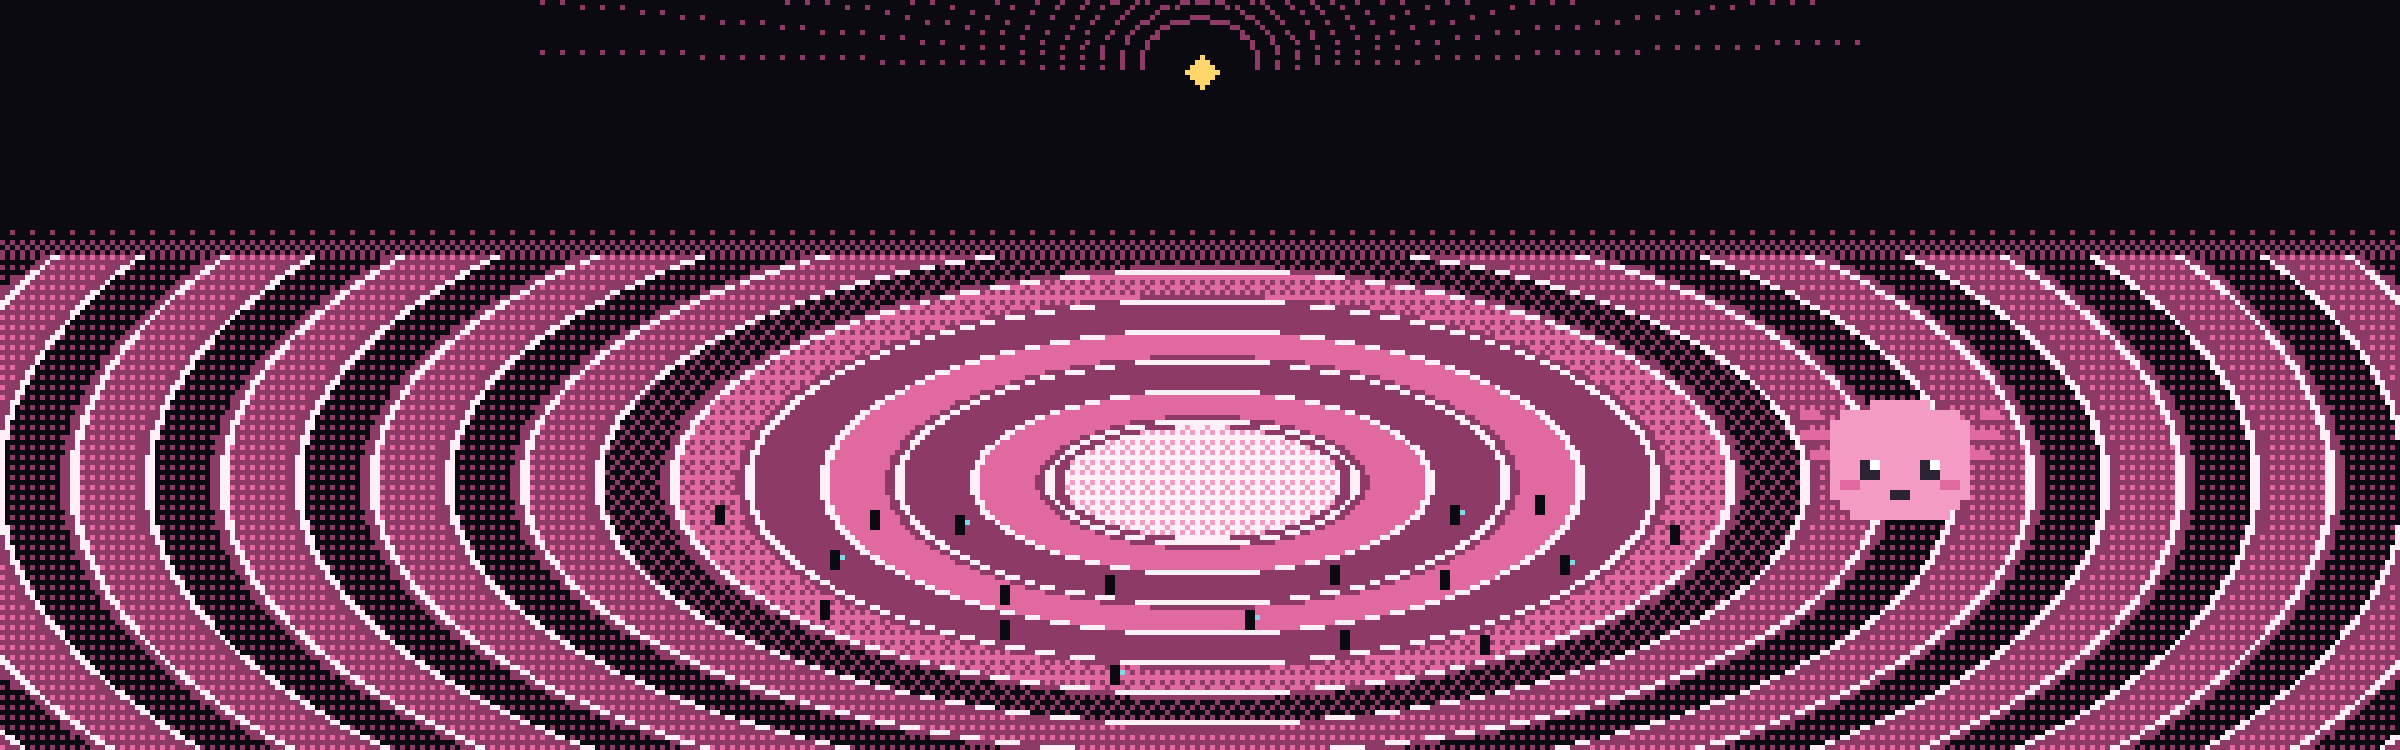
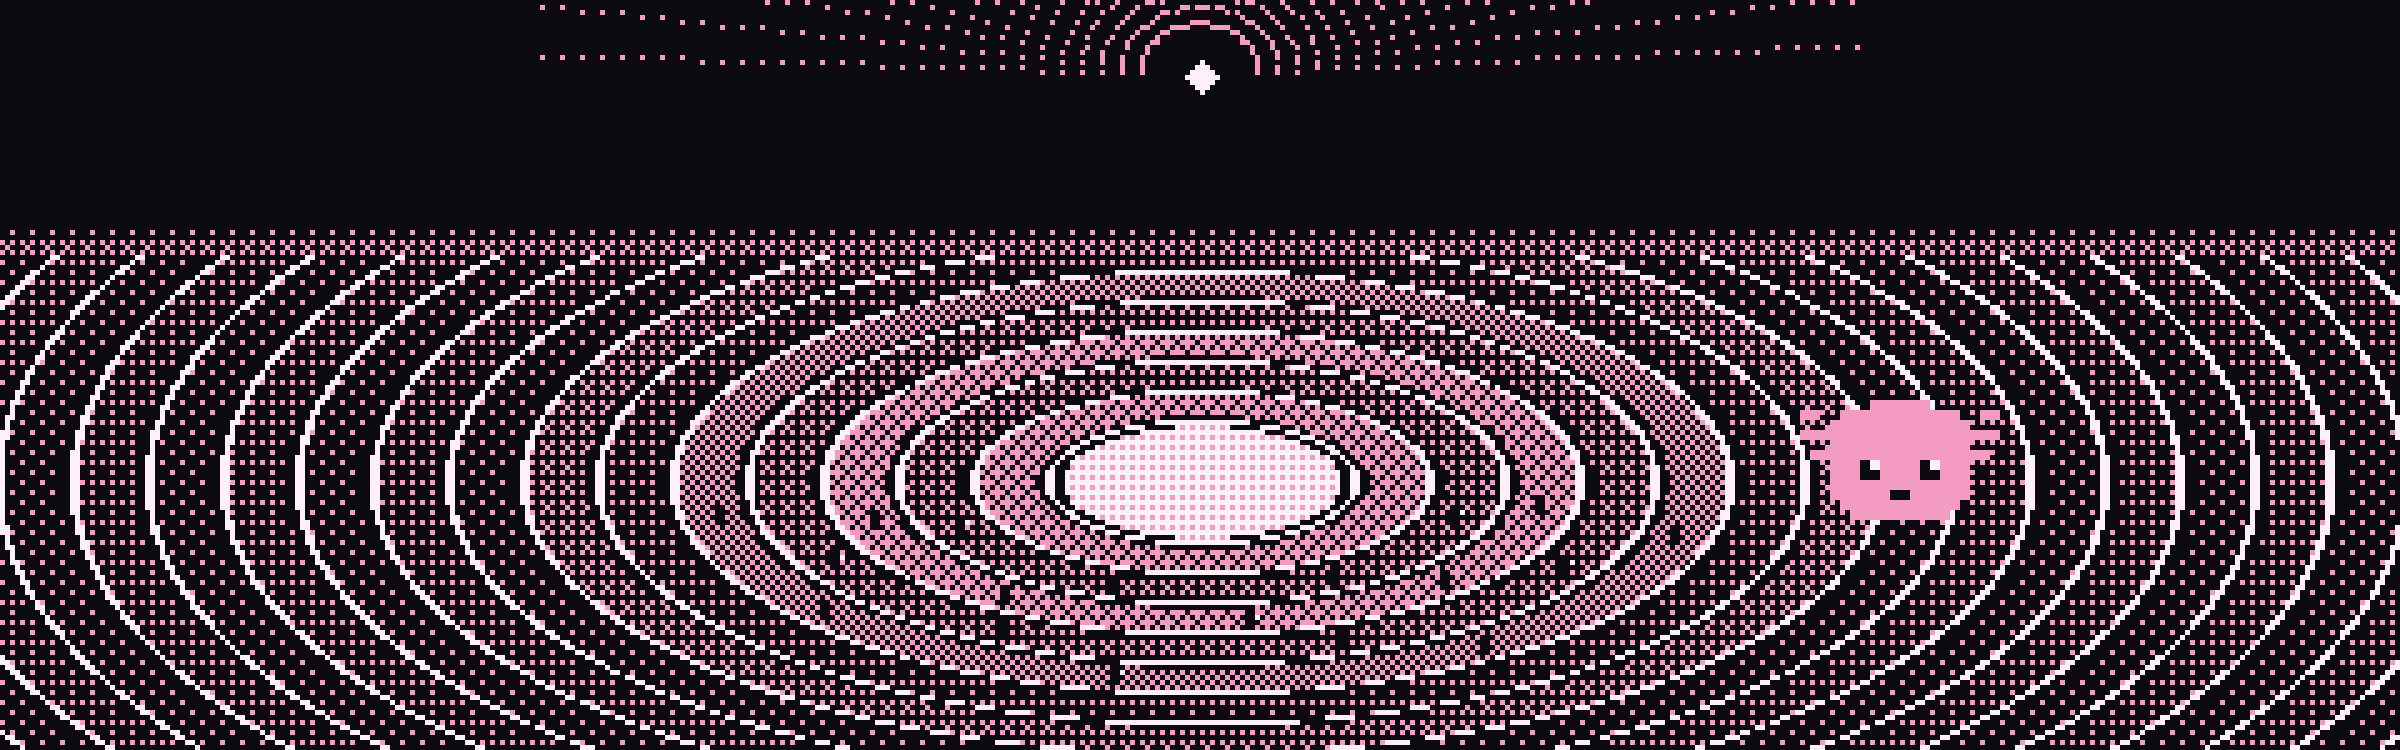
feat(site): 포트폴리오 v15.2 — 두-잉크 규율 + 무대 조명 스크롤
로즈+로즈화이트 두 잉크(디더 밀도로 톤) 듀오톤으로 씬 재생성, 골드·아쿠아
전면 퇴장(UI 악센트 스윕 포함). 녹화 영상의 효과 이식: StageLight가 각
막을 중앙 진입 시 점등, 이탈 시 암전(opacity-only, RM-safe).

Claude-Session: https://claude.ai/code/session_01PqVsEXaJAUXfpCbsdzRavA

diff --git a/site/src/app/portfolio/page.tsx b/site/src/app/portfolio/page.tsx
@@ -108,7 +108,7 @@ function TerminalMock() {
           </div>
         </div>
       </div>
-      <figcaption className="mx-auto mt-3 w-fit rounded bg-[color-mix(in_srgb,var(--paper)_78%,transparent)] px-3 py-1 text-center font-mono text-[10.5px] text-[var(--acc-aqua)]">
+      <figcaption className="mx-auto mt-3 w-fit rounded bg-[color-mix(in_srgb,var(--paper)_78%,transparent)] px-3 py-1 text-center font-mono text-[10.5px] text-[var(--acc-artifact)]">
         core/ui/mascot.py · geodi_art.py{" "}
         <span className="text-[var(--ink-2)]">
           {t(locale, "CLI 웰컴 스크린을 그대로 옮긴 화면", "the CLI welcome screen, transcribed")}
@@ -187,7 +187,7 @@ function HeroField() {
             </motion.p>
             <motion.div variants={heroItem} className="mt-3 inline-block rounded bg-[var(--paper)] px-5 py-3 text-left font-mono text-[12.5px] text-[var(--ink-2)] sm:text-[13.5px]">
               <span className="text-[var(--acc-artifact)]">$</span> uv run geode{" "}
-              <span className="text-[var(--code-string)]">
+              <span className="text-[#FFF0F8]">
                 &quot;{t(locale, "이 레포 점검하고 릴리스 블로커 요약해줘", "inspect this repo and summarize release blockers")}&quot;
               </span>
             </motion.div>
@@ -288,9 +288,9 @@ function GalleryBand() {
 const LOOP_NODES = [
   { label: "Perceive", color: "var(--ink-2)" },
   { label: "Plan", color: "var(--ink-2)" },
-  { label: "Act", color: "var(--acc-line)" },
+  { label: "Act", color: "#FFF0F8" },
   { label: "Observe", color: "var(--ink-2)" },
-  { label: "Verify", color: "var(--acc-aqua)" },
+  { label: "Verify", color: "var(--acc-artifact)" },
   { label: "Replan", color: "var(--ink-2)" },
 ];
 
@@ -443,17 +443,17 @@ function AuditGateDiagram() {
           shapeRendering="crispEdges"
         />
       ))}
-      <line x1="316" y1="76" x2="402" y2="76" stroke="var(--acc-line)" strokeWidth="1" strokeDasharray="4 2" />
+      <line x1="316" y1="76" x2="402" y2="76" stroke="#FFF0F8" strokeWidth="1" strokeDasharray="4 2" />
       <text x="359" y="120" textAnchor="middle" fontSize="8.5" fontFamily="var(--font-fira-code), monospace" fill="var(--ink-3)">
         critical floor
       </text>
 
       {/* gate branches */}
       <line x1="406" y1="85" x2="430" y2="85" stroke="var(--rule)" strokeWidth="1" />
-      <line x1="430" y1="85" x2="446" y2="52" stroke="var(--acc-line)" strokeWidth="1" />
-      <polygon points="-3,-3.5 4,0 -3,3.5" fill="var(--acc-line)" transform="translate(448 49) rotate(-64)" />
-      <rect x="446" y="30" width="66" height="20" fill="var(--paper-2)" stroke="var(--acc-line)" shapeRendering="crispEdges" />
-      <text x="479" y="43" textAnchor="middle" fontSize="9.5" fontFamily="var(--font-fira-code), monospace" fill="var(--acc-line)">
+      <line x1="430" y1="85" x2="446" y2="52" stroke="#FFF0F8" strokeWidth="1" />
+      <polygon points="-3,-3.5 4,0 -3,3.5" fill="#FFF0F8" transform="translate(448 49) rotate(-64)" />
+      <rect x="446" y="30" width="66" height="20" fill="var(--paper-2)" stroke="#FFF0F8" shapeRendering="crispEdges" />
+      <text x="479" y="43" textAnchor="middle" fontSize="9.5" fontFamily="var(--font-fira-code), monospace" fill="#FFF0F8">
         promote
       </text>
       <line x1="430" y1="85" x2="446" y2="118" stroke="var(--ink-3)" strokeWidth="1" />
@@ -512,7 +512,7 @@ function SeedgenDiagram() {
               y="16"
               width="5"
               height="5"
-              fill={i === 4 ? "var(--acc-line)" : "var(--acc-artifact)"}
+              fill={i === 4 ? "#FFF0F8" : "var(--acc-artifact)"}
               shapeRendering="crispEdges"
             />
           ))}
@@ -528,13 +528,31 @@ function SeedgenDiagram() {
       <text x="260" y="116" textAnchor="middle" fontSize="9" fontFamily="var(--font-fira-code), monospace" fill="var(--ink-3)">
         {t(locale, "후보는 단계마다 떨어지고, top-5 생존자만 시드 풀에 남습니다", "candidates drop at every stage; only the top-5 survivors reach the seed pool")}
       </text>
-      <text x="260" y="134" textAnchor="middle" fontSize="8.5" fontFamily="var(--font-fira-code), monospace" fill="var(--acc-aqua)">
+      <text x="260" y="134" textAnchor="middle" fontSize="8.5" fontFamily="var(--font-fira-code), monospace" fill="var(--acc-artifact)">
         Elo + difficulty blend · co-evolving pool
       </text>
     </svg>
   );
 }
 
+
+/** Scroll-driven stage lighting: an act brightens as it takes center stage
+    and falls back into the dark as it leaves (opacity-only, RM-safe). */
+function StageLight({ children, className }: { children: React.ReactNode; className?: string }) {
+  const lightRef = useRef<HTMLDivElement | null>(null);
+  const { scrollYProgress } = useScroll({ target: lightRef, offset: ["start end", "end start"] });
+  const shade = useTransform(scrollYProgress, [0, 0.28, 0.72, 1], [0.78, 0, 0, 0.78]);
+  return (
+    <div ref={lightRef} className={`relative ${className ?? ""}`}>
+      {children}
+      <motion.div
+        aria-hidden
+        className="pointer-events-none absolute inset-0 z-30 bg-[var(--paper)]"
+        style={{ opacity: shade }}
+      />
+    </div>
+  );
+}
 
 /* ---------------- run row: three ways in --------------------------------- */
 
@@ -576,7 +594,7 @@ function RunRow() {
             <h2 className="font-serif-display mt-3 text-[30px] font-semibold text-[var(--ink-1)]">
               {locale === "en" ? mode.titleEn : mode.titleKo}
             </h2>
-            <p className="mx-auto mt-3 inline-block rounded bg-[var(--paper-deep)] px-4 py-2 font-mono text-[13px] text-[var(--acc-line)]">
+            <p className="mx-auto mt-3 inline-block rounded bg-[var(--paper-deep)] px-4 py-2 font-mono text-[13px] text-[#FFF0F8]">
               {mode.cmd}
             </p>
             <p className="mx-auto mt-3 max-w-[260px] text-[13px] leading-[1.7] text-[var(--ink-2)]">
@@ -598,10 +616,10 @@ const SLAB_ACCENT = "#8E3A66";
 function PerceiveBanner() {
   return (
     <div className="flex h-full w-full flex-col justify-center gap-2.5 px-6 font-mono text-[12px] leading-relaxed">
-      <p><span className="text-[var(--acc-aqua)]">context</span><span className="text-[var(--ink-3)]"> · per-turn time, memory, rules</span></p>
-      <p><span className="text-[var(--acc-aqua)]">documents</span><span className="text-[var(--ink-3)]"> · local pdf ingest</span></p>
-      <p><span className="text-[var(--acc-aqua)]">browser</span><span className="text-[var(--ink-3)]"> · your real chrome, over cdp</span></p>
-      <p><span className="text-[var(--acc-aqua)]">desktop</span><span className="text-[var(--ink-3)]"> · ax tree before pixels</span></p>
+      <p><span className="text-[var(--acc-artifact)]">context</span><span className="text-[var(--ink-3)]"> · per-turn time, memory, rules</span></p>
+      <p><span className="text-[var(--acc-artifact)]">documents</span><span className="text-[var(--ink-3)]"> · local pdf ingest</span></p>
+      <p><span className="text-[var(--acc-artifact)]">browser</span><span className="text-[var(--ink-3)]"> · your real chrome, over cdp</span></p>
+      <p><span className="text-[var(--acc-artifact)]">desktop</span><span className="text-[var(--ink-3)]"> · ax tree before pixels</span></p>
     </div>
   );
 }
@@ -614,7 +632,7 @@ function MeasureBanner() {
       <div className="flex items-baseline justify-center gap-6">
         {cells.map((cell) => (
           <div key={cell.label} className="text-center">
-            <p className="font-serif-display text-[26px] font-black text-[var(--acc-line)]">{cell.value}</p>
+            <p className="font-serif-display text-[26px] font-black text-[#FFF0F8]">{cell.value}</p>
             <p className="mt-1 font-mono text-[10px] uppercase tracking-[0.2em] text-[var(--ink-3)]">{cell.label}</p>
           </div>
         ))}
@@ -856,15 +874,23 @@ export default function GeodePortfolioPage() {
           <HeroField />
         </div>
         <div className="relative z-10">
-          <GalleryBand />
-          <RunRow />
-          <FeaturesGrid />
+          <StageLight>
+            <GalleryBand />
+          </StageLight>
+          <StageLight>
+            <RunRow />
+          </StageLight>
+          <StageLight>
+            <FeaturesGrid />
+          </StageLight>
           <div className="relative">
             <div className="sticky top-0 z-0">
               <WordmarkBand />
             </div>
             <div className="relative z-10">
-              <LabFinale />
+              <StageLight>
+                <LabFinale />
+              </StageLight>
             </div>
           </div>
           <div className="relative z-10 bg-[var(--paper)]">

diff --git a/site/src/data/geode/changelog.ts b/site/src/data/geode/changelog.ts
@@ -19,7 +19,7 @@ export const CHANGELOG: ChangelogEntry[] = [
   {
     "version": "0.99.287",
     "date": "2026-07-10",
-    "body": "### Changed\n\n- **Portfolio v11 — landing-grade pass on the growth log (operator feedback\n  batch).** The hero is now centered with a terminal mock of the real CLI\n  welcome screen (`core/ui/mascot.py` line layout + `GEODI_PIXELS` sprite,\n  2-frame idle bob and blinking prompt caret, `prefers-reduced-motion`\n  respected), followed by a bento sheet band: the character-sheet aside, a\n  bench card rendering the synced tau2/MCPMark matrices\n  (`src/data/geode/benchmark-measurements.ts` — Retail 0.763 / Telecom 0.877 /\n  Airline 0.820 base runs, MCPMark filesystem/easy 100%), and a refreshed\n  tech-stack card (`tech-stack.ts` re-measured 2026-07-10; the stale\n  LangGraph/98-tests inventory is gone). Reference bar: the Claude Code\n  landing (product moment first, mascot as section divider, dated feed).\n- **Character-facing display font: Galmuri11.** The pixel font (SIL OFL,\n  woff2 vendored in `site/src/fonts/`) now carries /portfolio display\n  headings, era titles, stat numbers, and the docs-shell wordmark, matching\n  the dot mascot; body prose stays Inter. Korean headings use\n  `word-break: keep-all`.\n- **Docs shell carries the mascot.** The docs header brand renders a static\n  `GeodiSprite` beside the pixel wordmark; docs prose remains mascot-free.\n- **Selling points over inventory counts (operator feedback).** A \"why geode\"\n  section leads the page with the three differentiators (safety-gated\n  self-improvement, an execution-owning loop, subscription-resident\n  multi-provider), each pinned to a code path; the hero paragraph now sells\n  the essence instead of release counts. Section 03's body loop gains a\n  pixel-styled hexagon cycle diagram (while(tool_use) ring, finalize exit);\n  bench matrices gain per-value bars plus explicit model · provider · source\n  route lines (gpt-5.5 · openai-codex · subscription / gpt-5.2 · openai ·\n  payg), and the character sheet records supported providers. Copy: \"부화\"\n  retired for a \"Birth\" label, \"장비\" for \"도구\"; the growth log ends with an\n  open \"next act\" row reserved for the first self-cut release.\n- **Loop-laboratory art direction, final pass (Hermes landing x Lanthimos).**\n  Full rewrite of the page's first act: a rose color-field hero in the Hermes\n  split composition (editorial Noto Serif KR black statement left, generated\n  white-line engraving of the mascot right — PIL FIND_EDGES + dither hatch,\n  edge-feathered into the field), pixel wordmark as the centered brand mark,\n  mono small-caps labels, print-edition corner stamps (version, license), and\n  a full-bleed blurred gallery band with the real CLI welcome terminal\n  floating at its center. The chapter break becomes a portal-style band:\n  ghost pixel watermark, serif declaration, and the mascot as a specimen in a\n  circular petri dish (the audit system is literally named Petri). Type\n  hierarchy is now serif = statements/section titles, pixel = wordmark and\n  character surfaces, mono = labels. The YouTube demo section is removed per\n  operator; frontend stack is confirmed as Next.js 16 + React 19 + Tailwind 4\n  + Astryx + Galmuri11 + Noto Serif KR.\n- **Void theatre refinement (operator: signature colors only).** Orb lamps,\n  the striped dado, and the backdrop porthole are removed; both scenes reduce\n  to the essential loop-punk image — a single gold point radiating dotted\n  rays into the void above the concentric rose amphitheatre, the specimen on\n  its pale stage, and dark auditors on the tiers, a third of them now\n  carrying a single aqua lens pixel (rose = identity, gold = action, aqua =\n  information — the full signature triad and nothing else).\n- **The anatomical theatre + scroll-as-camera (Lanthimos impression pass).**\n  The checkerboard floors are gone: both generated scenes are rebuilt around\n  Poor Things' anatomical theatre — concentric tiered rings around the\n  specimen stage (petri rings = loop rings), sparse dark auditor silhouettes\n  watching from the tiers (the Petri panel), orb lamps flanking; in the wide\n  hall the floating CLI terminal itself becomes the specimen (Geodi sits in\n  the audience watching its own run). Scroll now drives the cinematography:\n  the hero scene push-zooms toward the specimen (the Lanthimos slow zoom),\n  the hall pulls back as its act arrives, the pinned wordmark looms, feature\n  banners drift in parallax, and the finale ghost counter-zooms — all\n  transform-only, reduced-motion gated.\n- **Set dressing pass (operator: less lo-fi, more Lanthimos + Hermes).**\n  The hero scene gains engraving-style rays radiating from the gold sun,\n  arched gallery windows with tracery, a striped dado (the Poor Things bar\n  counter), stacked glowing orb lamps, and a specimen dais inlaid beneath\n  the mascot; the gallery blur is replaced by a generated wide pixel hall\n  (`geode-hall-wide.png`, three portholes + colonnade) so the floating\n  terminal sits in front of the central porthole. Reduced-motion now keeps\n  opacity fades (movement/scale only are dropped) so choreography survives\n  macOS Reduce Motion; dead CadenceChart code removed.\n- **Act-curtain page transitions.** Scrolling now changes acts instead of\n  sliding one long page: the hero field pins beneath the flow and dims/scales\n  back as the gallery band rides over it, and the giant wordmark pins as a\n  full-screen act that the rose finale then covers (pure position: sticky\n  stacking + framer scroll transforms — no scroll hijack, fully\n  interruptible, reduced-motion gated). Vercel web-interface-guidelines pass:\n  text-balance on display headings, touch-action on primary CTAs; finale\n  eyebrow reads \"cultured since\" (lab tone) instead of \"birth\".\n- **Content demolition — the Hermes screen-recording grammar (operator\n  directive).** The dossier sections (why/sheet/loop/growth/evolve with their\n  tables and logs) are torn down and rebuilt as: a three-way RUN row\n  (Terminal / MCP Server / Daemon with command chips), six numbered\n  editorial plates on a rose-white print slab (#1 RUNS THE LOOP .. #6 ON\n  YOUR SUBSCRIPTIONS — serif-caps headlines over dark art banners reusing\n  the loop/audit/seedgen diagrams, tau2 figures, and perception lines), a\n  giant edge-to-edge pixel GEODE wordmark band, and a Loop Laboratory\n  finale (specimen dish, birth/release stats, docs + full-record CTAs,\n  corner stamps). Astryx Token remains on the reside plate; the measured\n  claims survive in distilled form.\n- **Nacreous sky field + frame-breaks (Poor Things trailer review).** The\n  hero's flat rose field becomes a generated pixel sky (`geode-sky.png`:\n  domain-warped sine swirls dithered into white crests and deep-rose shadows,\n  with a calmed zone behind the statement text), and crisp pixel clouds\n  drift across — and past — the lab-scene frame (`PixelCloud`, steps()\n  animation, reduced-motion gated).\n- **Representative character image + motion pass (dot art x Lanthimos).**\n  `geode-lab-scene.png` is generated procedurally (PIL): Geodi centered in a\n  one-point-perspective laboratory hall — The Favourite's checkerboard\n  marble, Poor Things' porthole sky with a gold sun, Sacred Deer symmetry —\n  in a 6-color pixel palette, and mounts as the hero's right panel. The page\n  defaults to English (`LocaleProvider` gains `defaultLocale`; Korean copy\n  retained behind the toggle pending operator review), and framer-motion\n  choreography lands: hero stagger, scene idle float, terminal rise into the\n  gallery band, petri-dish spring, cadence bars growing on view — all gated\n  by `useReducedMotion`. Superseded etch/plate drafts removed.\n- **Perception and action, as implemented (operator PDF review).** The loop\n  section now grounds four capabilities in their modules: the two-layer\n  prompt (`<static_context>` cached / `<dynamic_context>` per-turn with\n  provider-gated current date, `core/agent/system_prompt.py`), local PDF\n  ingest (`core/tools/document_ingest.py`), real-Chrome CDP browser use\n  (`core/tools/browser_tools.py`), and the provider-agnostic computer-use\n  harness with the AX-tree first rung (`core/tools/computer_use.py` ·\n  `ui_probe.py`). Loop copy adds the explicit termination-reason catalog.\n- **Self-evolving apparatus, drawn (Hermes-landing style feature visuals).**\n  Two pixel schematics join the loop diagram: the audit-gate diagram\n  (scaffold mutation, adversarial Petri arena, dimension bars with the\n  critical floor, promote/reject branches with the gate·random·never arms)\n  and the seed-hypothesis factory (generator, critic, pilot, ranker, evolver\n  with candidates culled per stage, Elo + difficulty survivor blend). An\n  honest attempt-history log records what did not work: the zero-promotion\n  saturation finding and Crucible cycle 1's \"proved the protocol, not\n  self-improvement\" conclusion, with dates and version anchors.\n- **Identity details.** The site favicon is now the canonical GEODI_PIXELS\n  sprite (generated `src/app/icon.png` + `favicon.ico`), a mascot-budgeted\n  404 page lands at `src/app/not-found.tsx`, and the hero/card sprites react\n  to clicks with a three-hop pixel bounce (`prefers-reduced-motion` guarded).\n- **De-slop: decorative arrows and the dev-blog link are gone.** CTA/link\n  arrows (`→`, `▸`) are removed site-portfolio-wide (ranges now use `~`), and\n  the Dev Blog link is dropped from the portfolio hero and the shared footer.\n  Growth-log sections gain restrained scroll reveals (existing framer-motion\n  `ScrollReveal`)."
+    "body": "### Changed\n\n- **Portfolio v11 — landing-grade pass on the growth log (operator feedback\n  batch).** The hero is now centered with a terminal mock of the real CLI\n  welcome screen (`core/ui/mascot.py` line layout + `GEODI_PIXELS` sprite,\n  2-frame idle bob and blinking prompt caret, `prefers-reduced-motion`\n  respected), followed by a bento sheet band: the character-sheet aside, a\n  bench card rendering the synced tau2/MCPMark matrices\n  (`src/data/geode/benchmark-measurements.ts` — Retail 0.763 / Telecom 0.877 /\n  Airline 0.820 base runs, MCPMark filesystem/easy 100%), and a refreshed\n  tech-stack card (`tech-stack.ts` re-measured 2026-07-10; the stale\n  LangGraph/98-tests inventory is gone). Reference bar: the Claude Code\n  landing (product moment first, mascot as section divider, dated feed).\n- **Character-facing display font: Galmuri11.** The pixel font (SIL OFL,\n  woff2 vendored in `site/src/fonts/`) now carries /portfolio display\n  headings, era titles, stat numbers, and the docs-shell wordmark, matching\n  the dot mascot; body prose stays Inter. Korean headings use\n  `word-break: keep-all`.\n- **Docs shell carries the mascot.** The docs header brand renders a static\n  `GeodiSprite` beside the pixel wordmark; docs prose remains mascot-free.\n- **Selling points over inventory counts (operator feedback).** A \"why geode\"\n  section leads the page with the three differentiators (safety-gated\n  self-improvement, an execution-owning loop, subscription-resident\n  multi-provider), each pinned to a code path; the hero paragraph now sells\n  the essence instead of release counts. Section 03's body loop gains a\n  pixel-styled hexagon cycle diagram (while(tool_use) ring, finalize exit);\n  bench matrices gain per-value bars plus explicit model · provider · source\n  route lines (gpt-5.5 · openai-codex · subscription / gpt-5.2 · openai ·\n  payg), and the character sheet records supported providers. Copy: \"부화\"\n  retired for a \"Birth\" label, \"장비\" for \"도구\"; the growth log ends with an\n  open \"next act\" row reserved for the first self-cut release.\n- **Loop-laboratory art direction, final pass (Hermes landing x Lanthimos).**\n  Full rewrite of the page's first act: a rose color-field hero in the Hermes\n  split composition (editorial Noto Serif KR black statement left, generated\n  white-line engraving of the mascot right — PIL FIND_EDGES + dither hatch,\n  edge-feathered into the field), pixel wordmark as the centered brand mark,\n  mono small-caps labels, print-edition corner stamps (version, license), and\n  a full-bleed blurred gallery band with the real CLI welcome terminal\n  floating at its center. The chapter break becomes a portal-style band:\n  ghost pixel watermark, serif declaration, and the mascot as a specimen in a\n  circular petri dish (the audit system is literally named Petri). Type\n  hierarchy is now serif = statements/section titles, pixel = wordmark and\n  character surfaces, mono = labels. The YouTube demo section is removed per\n  operator; frontend stack is confirmed as Next.js 16 + React 19 + Tailwind 4\n  + Astryx + Galmuri11 + Noto Serif KR.\n- **Two-ink discipline + stage lighting (operator: Hermes uses exactly two\n  colors).** The whole portfolio surface reduces to two inks on the dark\n  substrate — Axolotl Rose and rose-white — with tone carried by dither\n  density, exactly the Hermes engraving trick: both scenes regenerated as\n  strict duotone (gold/aqua leave the artwork; the sun, rims, and auditor\n  lenses become rose-white), and every UI accent sweeps with them (command\n  strings, bench figures, diagram highlights). Scroll gains the recorded\n  Hermes effect: StageLight overlays brighten each act as it takes center\n  stage and sink it back into darkness as it leaves (opacity-only).\n- **Void theatre refinement (operator: signature colors only).** Orb lamps,\n  the striped dado, and the backdrop porthole are removed; both scenes reduce\n  to the essential loop-punk image — a single gold point radiating dotted\n  rays into the void above the concentric rose amphitheatre, the specimen on\n  its pale stage, and dark auditors on the tiers, a third of them now\n  carrying a single aqua lens pixel (rose = identity, gold = action, aqua =\n  information — the full signature triad and nothing else).\n- **The anatomical theatre + scroll-as-camera (Lanthimos impression pass).**\n  The checkerboard floors are gone: both generated scenes are rebuilt around\n  Poor Things' anatomical theatre — concentric tiered rings around the\n  specimen stage (petri rings = loop rings), sparse dark auditor silhouettes\n  watching from the tiers (the Petri panel), orb lamps flanking; in the wide\n  hall the floating CLI terminal itself becomes the specimen (Geodi sits in\n  the audience watching its own run). Scroll now drives the cinematography:\n  the hero scene push-zooms toward the specimen (the Lanthimos slow zoom),\n  the hall pulls back as its act arrives, the pinned wordmark looms, feature\n  banners drift in parallax, and the finale ghost counter-zooms — all\n  transform-only, reduced-motion gated.\n- **Set dressing pass (operator: less lo-fi, more Lanthimos + Hermes).**\n  The hero scene gains engraving-style rays radiating from the gold sun,\n  arched gallery windows with tracery, a striped dado (the Poor Things bar\n  counter), stacked glowing orb lamps, and a specimen dais inlaid beneath\n  the mascot; the gallery blur is replaced by a generated wide pixel hall\n  (`geode-hall-wide.png`, three portholes + colonnade) so the floating\n  terminal sits in front of the central porthole. Reduced-motion now keeps\n  opacity fades (movement/scale only are dropped) so choreography survives\n  macOS Reduce Motion; dead CadenceChart code removed.\n- **Act-curtain page transitions.** Scrolling now changes acts instead of\n  sliding one long page: the hero field pins beneath the flow and dims/scales\n  back as the gallery band rides over it, and the giant wordmark pins as a\n  full-screen act that the rose finale then covers (pure position: sticky\n  stacking + framer scroll transforms — no scroll hijack, fully\n  interruptible, reduced-motion gated). Vercel web-interface-guidelines pass:\n  text-balance on display headings, touch-action on primary CTAs; finale\n  eyebrow reads \"cultured since\" (lab tone) instead of \"birth\".\n- **Content demolition — the Hermes screen-recording grammar (operator\n  directive).** The dossier sections (why/sheet/loop/growth/evolve with their\n  tables and logs) are torn down and rebuilt as: a three-way RUN row\n  (Terminal / MCP Server / Daemon with command chips), six numbered\n  editorial plates on a rose-white print slab (#1 RUNS THE LOOP .. #6 ON\n  YOUR SUBSCRIPTIONS — serif-caps headlines over dark art banners reusing\n  the loop/audit/seedgen diagrams, tau2 figures, and perception lines), a\n  giant edge-to-edge pixel GEODE wordmark band, and a Loop Laboratory\n  finale (specimen dish, birth/release stats, docs + full-record CTAs,\n  corner stamps). Astryx Token remains on the reside plate; the measured\n  claims survive in distilled form.\n- **Nacreous sky field + frame-breaks (Poor Things trailer review).** The\n  hero's flat rose field becomes a generated pixel sky (`geode-sky.png`:\n  domain-warped sine swirls dithered into white crests and deep-rose shadows,\n  with a calmed zone behind the statement text), and crisp pixel clouds\n  drift across — and past — the lab-scene frame (`PixelCloud`, steps()\n  animation, reduced-motion gated).\n- **Representative character image + motion pass (dot art x Lanthimos).**\n  `geode-lab-scene.png` is generated procedurally (PIL): Geodi centered in a\n  one-point-perspective laboratory hall — The Favourite's checkerboard\n  marble, Poor Things' porthole sky with a gold sun, Sacred Deer symmetry —\n  in a 6-color pixel palette, and mounts as the hero's right panel. The page\n  defaults to English (`LocaleProvider` gains `defaultLocale`; Korean copy\n  retained behind the toggle pending operator review), and framer-motion\n  choreography lands: hero stagger, scene idle float, terminal rise into the\n  gallery band, petri-dish spring, cadence bars growing on view — all gated\n  by `useReducedMotion`. Superseded etch/plate drafts removed.\n- **Perception and action, as implemented (operator PDF review).** The loop\n  section now grounds four capabilities in their modules: the two-layer\n  prompt (`<static_context>` cached / `<dynamic_context>` per-turn with\n  provider-gated current date, `core/agent/system_prompt.py`), local PDF\n  ingest (`core/tools/document_ingest.py`), real-Chrome CDP browser use\n  (`core/tools/browser_tools.py`), and the provider-agnostic computer-use\n  harness with the AX-tree first rung (`core/tools/computer_use.py` ·\n  `ui_probe.py`). Loop copy adds the explicit termination-reason catalog.\n- **Self-evolving apparatus, drawn (Hermes-landing style feature visuals).**\n  Two pixel schematics join the loop diagram: the audit-gate diagram\n  (scaffold mutation, adversarial Petri arena, dimension bars with the\n  critical floor, promote/reject branches with the gate·random·never arms)\n  and the seed-hypothesis factory (generator, critic, pilot, ranker, evolver\n  with candidates culled per stage, Elo + difficulty survivor blend). An\n  honest attempt-history log records what did not work: the zero-promotion\n  saturation finding and Crucible cycle 1's \"proved the protocol, not\n  self-improvement\" conclusion, with dates and version anchors.\n- **Identity details.** The site favicon is now the canonical GEODI_PIXELS\n  sprite (generated `src/app/icon.png` + `favicon.ico`), a mascot-budgeted\n  404 page lands at `src/app/not-found.tsx`, and the hero/card sprites react\n  to clicks with a three-hop pixel bounce (`prefers-reduced-motion` guarded).\n- **De-slop: decorative arrows and the dev-blog link are gone.** CTA/link\n  arrows (`→`, `▸`) are removed site-portfolio-wide (ranges now use `~`), and\n  the Dev Blog link is dropped from the portfolio hero and the shared footer.\n  Growth-log sections gain restrained scroll reveals (existing framer-motion\n  `ScrollReveal`)."
   },
   {
     "version": "0.99.286",

diff --git a/CHANGELOG.md b/CHANGELOG.md
@@ -92,6 +92,15 @@ functional change.
   character surfaces, mono = labels. The YouTube demo section is removed per
   operator; frontend stack is confirmed as Next.js 16 + React 19 + Tailwind 4
   + Astryx + Galmuri11 + Noto Serif KR.
+- **Two-ink discipline + stage lighting (operator: Hermes uses exactly two
+  colors).** The whole portfolio surface reduces to two inks on the dark
+  substrate — Axolotl Rose and rose-white — with tone carried by dither
+  density, exactly the Hermes engraving trick: both scenes regenerated as
+  strict duotone (gold/aqua leave the artwork; the sun, rims, and auditor
+  lenses become rose-white), and every UI accent sweeps with them (command
+  strings, bench figures, diagram highlights). Scroll gains the recorded
+  Hermes effect: StageLight overlays brighten each act as it takes center
+  stage and sink it back into darkness as it leaves (opacity-only).
 - **Void theatre refinement (operator: signature colors only).** Orb lamps,
   the striped dado, and the backdrop porthole are removed; both scenes reduce
   to the essential loop-punk image — a single gold point radiating dotted